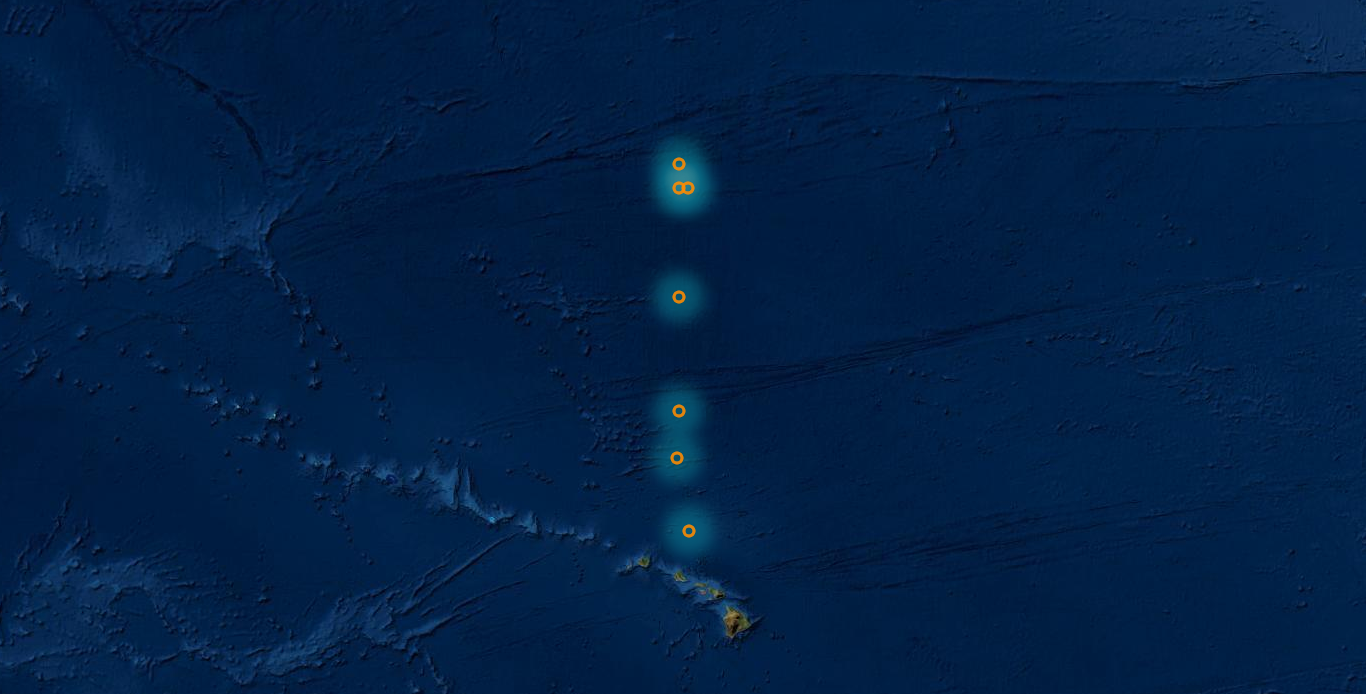
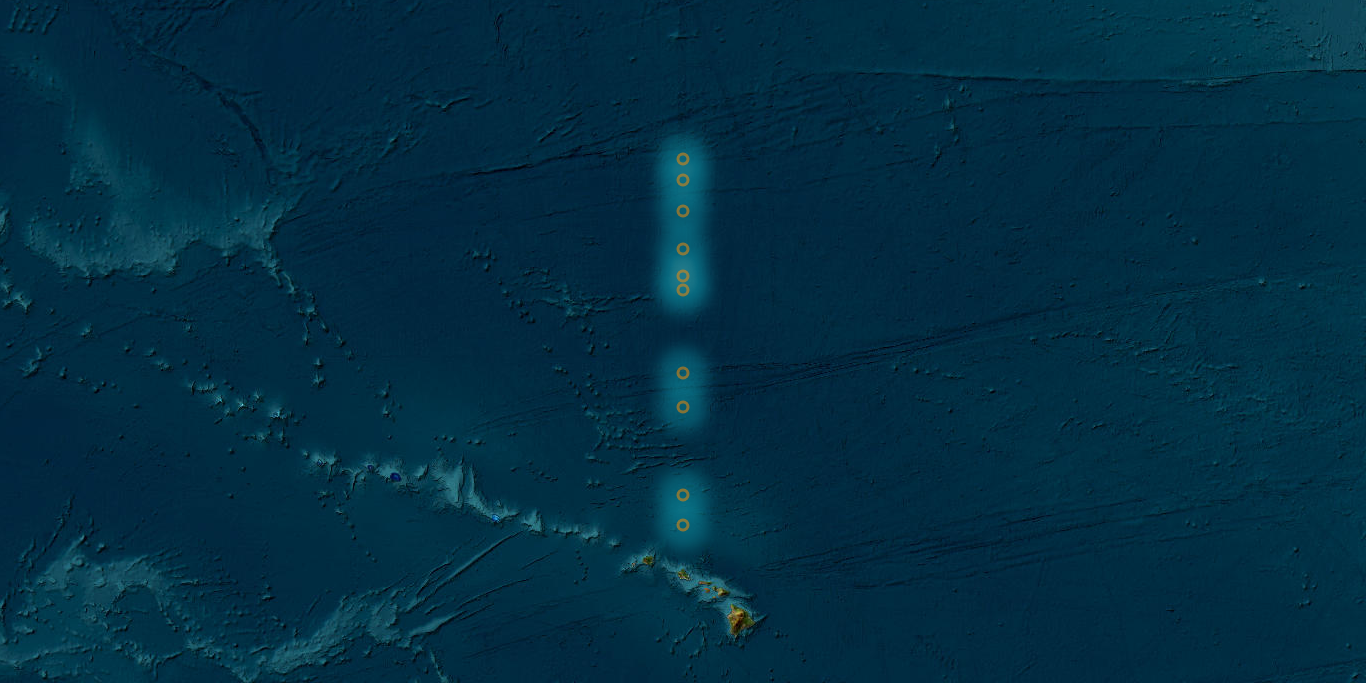
init

diff --git a/mission_icons/tblKOK1606_Gradients1_14C_NPP.html b/mission_icons/tblKOK1606_Gradients1_14C_NPP.html
@@ -23,7 +23,7 @@
             <meta name="viewport" content="width=device-width,
                 initial-scale=1.0, maximum-scale=1.0, user-scalable=no" />
             <style>
-                #map_f5e48bc91ca544d8b5bffabb1438fe5a {
+                #map_26b1746d8a884f21bd3cb9c8be00013f {
                     position: relative;
                     width: 100.0%;
                     height: 100.0%;
@@ -39,15 +39,15 @@
 </head>
 <body>    
     
-            <div class="folium-map" id="map_f5e48bc91ca544d8b5bffabb1438fe5a" ></div>
+            <div class="folium-map" id="map_26b1746d8a884f21bd3cb9c8be00013f" ></div>
         
 </body>
 <script>    
     
-            var map_f5e48bc91ca544d8b5bffabb1438fe5a = L.map(
-                "map_f5e48bc91ca544d8b5bffabb1438fe5a",
+            var map_26b1746d8a884f21bd3cb9c8be00013f = L.map(
+                "map_26b1746d8a884f21bd3cb9c8be00013f",
                 {
-                    center: [31.41428571428573, -157.89000000000004],
+                    center: [31.486, -157.999],
                     crs: L.CRS.EPSG3857,
                     zoom: 7,
                     zoomControl: true,
@@ -59,153 +59,87 @@
 
         
     
-            map_f5e48bc91ca544d8b5bffabb1438fe5a.fitBounds(
-                [[23.34, -158.09], [37.18, -157.55]],
+            map_26b1746d8a884f21bd3cb9c8be00013f.fitBounds(
+                [[23.5, -158.0], [37.3, -157.99]],
                 {}
             );
         
     
-            var tile_layer_081449b3103f47dcb7aaa97f4b6e8df6 = L.tileLayer(
+            var tile_layer_22550dae1fd245f8b073f1668d3f3204 = L.tileLayer(
                 "https://server.arcgisonline.com/ArcGIS/rest/services/World_Imagery/MapServer/tile/{z}/{y}/{x}",
                 {"attribution": " ", "detectRetina": false, "maxNativeZoom": 18, "maxZoom": 18, "minZoom": 0, "noWrap": false, "opacity": 1, "subdomains": "abc", "tms": false}
-            ).addTo(map_f5e48bc91ca544d8b5bffabb1438fe5a);
+            ).addTo(map_26b1746d8a884f21bd3cb9c8be00013f);
         
     
-            var heat_map_ce62b0fea4f142f39142deba19947210 = L.heatLayer(
-                [[23.34, -157.55], [23.34, -157.55], [23.34, -157.55], [28.08, -158.0], [28.08, -158.0], [28.08, -158.0], [32.4, -158.0], [32.4, -158.0], [32.4, -158.0], [37.18, -158.0], [37.18, -158.0], [37.18, -158.0], [36.34, -158.0], [36.34, -158.0], [36.34, -158.0], [36.34, -157.59], [36.34, -157.59], [36.34, -157.59], [26.22, -158.09], [26.22, -158.09], [26.22, -158.09]],
+            var heat_map_b237af739b3645a1b91ce3ea678a93a8 = L.heatLayer(
+                [[23.5, -157.99], [24.68, -158.0], [28.14, -158.0], [29.45, -158.0], [32.58, -158.0], [34.09, -158.0], [37.3, -158.0], [36.57, -158.0], [35.46, -158.0], [33.09, -158.0]],
                 {"blur": 15, "gradient": {"0.65": "#0A8A9F", "1": "#5F9EA0"}, "max": 1.0, "maxZoom": 18, "minOpacity": 0.5, "radius": 25}
-            ).addTo(map_f5e48bc91ca544d8b5bffabb1438fe5a);
+            ).addTo(map_26b1746d8a884f21bd3cb9c8be00013f);
         
     
-            var marker_cluster_fab07f4ef72b474da37f58a76f6f0a75 = L.markerClusterGroup(
+            var marker_cluster_af9eb94cec7a4b9f95e4650f11395ff5 = L.markerClusterGroup(
                 {"disableClusteringAtZoom": "1", "spiderfyOnMaxZoom": "False"}
             );
-            map_f5e48bc91ca544d8b5bffabb1438fe5a.addLayer(marker_cluster_fab07f4ef72b474da37f58a76f6f0a75);
+            map_26b1746d8a884f21bd3cb9c8be00013f.addLayer(marker_cluster_af9eb94cec7a4b9f95e4650f11395ff5);
         
     
-            var circle_marker_62deba5cdf9944f0aa26fabe385750dc = L.circleMarker(
-                [23.34, -157.55],
+            var circle_marker_757d7035e1b7441b944fc452d46a33d1 = L.circleMarker(
+                [23.5, -157.99],
                 {"bubblingMouseEvents": true, "color": "darkOrange", "dashArray": null, "dashOffset": null, "fill": false, "fillColor": "darkOrange", "fillOpacity": 0.2, "fillRule": "evenodd", "lineCap": "round", "lineJoin": "round", "opacity": 0.5, "radius": 5, "stroke": true, "weight": 3}
-            ).addTo(marker_cluster_fab07f4ef72b474da37f58a76f6f0a75);
+            ).addTo(marker_cluster_af9eb94cec7a4b9f95e4650f11395ff5);
         
     
-            var circle_marker_1da6d40df7be4586a01fac0f0042cafa = L.circleMarker(
-                [23.34, -157.55],
+            var circle_marker_83afbe07d2044e099e804bcd9d77b02f = L.circleMarker(
+                [24.68, -158.0],
                 {"bubblingMouseEvents": true, "color": "darkOrange", "dashArray": null, "dashOffset": null, "fill": false, "fillColor": "darkOrange", "fillOpacity": 0.2, "fillRule": "evenodd", "lineCap": "round", "lineJoin": "round", "opacity": 0.5, "radius": 5, "stroke": true, "weight": 3}
-            ).addTo(marker_cluster_fab07f4ef72b474da37f58a76f6f0a75);
+            ).addTo(marker_cluster_af9eb94cec7a4b9f95e4650f11395ff5);
         
     
-            var circle_marker_81a2cf4f10fd488da8971f05f78a8f2c = L.circleMarker(
-                [23.34, -157.55],
+            var circle_marker_7259781579374ebf97eb17124b74a96e = L.circleMarker(
+                [28.14, -158.0],
                 {"bubblingMouseEvents": true, "color": "darkOrange", "dashArray": null, "dashOffset": null, "fill": false, "fillColor": "darkOrange", "fillOpacity": 0.2, "fillRule": "evenodd", "lineCap": "round", "lineJoin": "round", "opacity": 0.5, "radius": 5, "stroke": true, "weight": 3}
-            ).addTo(marker_cluster_fab07f4ef72b474da37f58a76f6f0a75);
+            ).addTo(marker_cluster_af9eb94cec7a4b9f95e4650f11395ff5);
         
     
-            var circle_marker_70e8f1a81a7c41f9b2a4ba50d5f7f1ef = L.circleMarker(
-                [28.08, -158.0],
+            var circle_marker_04dae946a7d84c2d84202d62067ed6d3 = L.circleMarker(
+                [29.45, -158.0],
                 {"bubblingMouseEvents": true, "color": "darkOrange", "dashArray": null, "dashOffset": null, "fill": false, "fillColor": "darkOrange", "fillOpacity": 0.2, "fillRule": "evenodd", "lineCap": "round", "lineJoin": "round", "opacity": 0.5, "radius": 5, "stroke": true, "weight": 3}
-            ).addTo(marker_cluster_fab07f4ef72b474da37f58a76f6f0a75);
+            ).addTo(marker_cluster_af9eb94cec7a4b9f95e4650f11395ff5);
         
     
-            var circle_marker_cb0e52823d7047a784e1176f6d2f180e = L.circleMarker(
-                [28.08, -158.0],
+            var circle_marker_3b5c351548034c11ad02b9a3661b356c = L.circleMarker(
+                [32.58, -158.0],
                 {"bubblingMouseEvents": true, "color": "darkOrange", "dashArray": null, "dashOffset": null, "fill": false, "fillColor": "darkOrange", "fillOpacity": 0.2, "fillRule": "evenodd", "lineCap": "round", "lineJoin": "round", "opacity": 0.5, "radius": 5, "stroke": true, "weight": 3}
-            ).addTo(marker_cluster_fab07f4ef72b474da37f58a76f6f0a75);
+            ).addTo(marker_cluster_af9eb94cec7a4b9f95e4650f11395ff5);
         
     
-            var circle_marker_7c4f5de453a344cb9eeb55752faf0536 = L.circleMarker(
-                [28.08, -158.0],
+            var circle_marker_6d7c6416ddbe4e1e8ab663d6f60d3a88 = L.circleMarker(
+                [34.09, -158.0],
                 {"bubblingMouseEvents": true, "color": "darkOrange", "dashArray": null, "dashOffset": null, "fill": false, "fillColor": "darkOrange", "fillOpacity": 0.2, "fillRule": "evenodd", "lineCap": "round", "lineJoin": "round", "opacity": 0.5, "radius": 5, "stroke": true, "weight": 3}
-            ).addTo(marker_cluster_fab07f4ef72b474da37f58a76f6f0a75);
+            ).addTo(marker_cluster_af9eb94cec7a4b9f95e4650f11395ff5);
         
     
-            var circle_marker_0cfbdeae69c54e4fa85f783afdd660f8 = L.circleMarker(
-                [32.4, -158.0],
+            var circle_marker_99c0350544fa43388ac9ce4db8f8e5f4 = L.circleMarker(
+                [37.3, -158.0],
                 {"bubblingMouseEvents": true, "color": "darkOrange", "dashArray": null, "dashOffset": null, "fill": false, "fillColor": "darkOrange", "fillOpacity": 0.2, "fillRule": "evenodd", "lineCap": "round", "lineJoin": "round", "opacity": 0.5, "radius": 5, "stroke": true, "weight": 3}
-            ).addTo(marker_cluster_fab07f4ef72b474da37f58a76f6f0a75);
+            ).addTo(marker_cluster_af9eb94cec7a4b9f95e4650f11395ff5);
         
     
-            var circle_marker_7ae59b2a5e8449a3baa162c215a2d9bc = L.circleMarker(
-                [32.4, -158.0],
+            var circle_marker_1d0f42017d034f8bbec2dcf72d9639a0 = L.circleMarker(
+                [36.57, -158.0],
                 {"bubblingMouseEvents": true, "color": "darkOrange", "dashArray": null, "dashOffset": null, "fill": false, "fillColor": "darkOrange", "fillOpacity": 0.2, "fillRule": "evenodd", "lineCap": "round", "lineJoin": "round", "opacity": 0.5, "radius": 5, "stroke": true, "weight": 3}
-            ).addTo(marker_cluster_fab07f4ef72b474da37f58a76f6f0a75);
+            ).addTo(marker_cluster_af9eb94cec7a4b9f95e4650f11395ff5);
         
     
-            var circle_marker_02c8897aab20405485b76aa7ef412878 = L.circleMarker(
-                [32.4, -158.0],
+            var circle_marker_54de2e1808304ae5850bb1ea8cba4045 = L.circleMarker(
+                [35.46, -158.0],
                 {"bubblingMouseEvents": true, "color": "darkOrange", "dashArray": null, "dashOffset": null, "fill": false, "fillColor": "darkOrange", "fillOpacity": 0.2, "fillRule": "evenodd", "lineCap": "round", "lineJoin": "round", "opacity": 0.5, "radius": 5, "stroke": true, "weight": 3}
-            ).addTo(marker_cluster_fab07f4ef72b474da37f58a76f6f0a75);
+            ).addTo(marker_cluster_af9eb94cec7a4b9f95e4650f11395ff5);
         
     
-            var circle_marker_0c636e8e388c4f9ca896fb2609ab3500 = L.circleMarker(
-                [37.18, -158.0],
+            var circle_marker_0861c8a22509432ba197afb3502c7147 = L.circleMarker(
+                [33.09, -158.0],
                 {"bubblingMouseEvents": true, "color": "darkOrange", "dashArray": null, "dashOffset": null, "fill": false, "fillColor": "darkOrange", "fillOpacity": 0.2, "fillRule": "evenodd", "lineCap": "round", "lineJoin": "round", "opacity": 0.5, "radius": 5, "stroke": true, "weight": 3}
-            ).addTo(marker_cluster_fab07f4ef72b474da37f58a76f6f0a75);
-        
-    
-            var circle_marker_972165d128fe432ca9006412b5a711d1 = L.circleMarker(
-                [37.18, -158.0],
-                {"bubblingMouseEvents": true, "color": "darkOrange", "dashArray": null, "dashOffset": null, "fill": false, "fillColor": "darkOrange", "fillOpacity": 0.2, "fillRule": "evenodd", "lineCap": "round", "lineJoin": "round", "opacity": 0.5, "radius": 5, "stroke": true, "weight": 3}
-            ).addTo(marker_cluster_fab07f4ef72b474da37f58a76f6f0a75);
-        
-    
-            var circle_marker_abcf764987ce48d4a93d976b543ae438 = L.circleMarker(
-                [37.18, -158.0],
-                {"bubblingMouseEvents": true, "color": "darkOrange", "dashArray": null, "dashOffset": null, "fill": false, "fillColor": "darkOrange", "fillOpacity": 0.2, "fillRule": "evenodd", "lineCap": "round", "lineJoin": "round", "opacity": 0.5, "radius": 5, "stroke": true, "weight": 3}
-            ).addTo(marker_cluster_fab07f4ef72b474da37f58a76f6f0a75);
-        
-    
-            var circle_marker_0d332ca30191457cbeb582b55c8d7900 = L.circleMarker(
-                [36.34, -158.0],
-                {"bubblingMouseEvents": true, "color": "darkOrange", "dashArray": null, "dashOffset": null, "fill": false, "fillColor": "darkOrange", "fillOpacity": 0.2, "fillRule": "evenodd", "lineCap": "round", "lineJoin": "round", "opacity": 0.5, "radius": 5, "stroke": true, "weight": 3}
-            ).addTo(marker_cluster_fab07f4ef72b474da37f58a76f6f0a75);
-        
-    
-            var circle_marker_9801f12f1856460f98ae528fccf983c6 = L.circleMarker(
-                [36.34, -158.0],
-                {"bubblingMouseEvents": true, "color": "darkOrange", "dashArray": null, "dashOffset": null, "fill": false, "fillColor": "darkOrange", "fillOpacity": 0.2, "fillRule": "evenodd", "lineCap": "round", "lineJoin": "round", "opacity": 0.5, "radius": 5, "stroke": true, "weight": 3}
-            ).addTo(marker_cluster_fab07f4ef72b474da37f58a76f6f0a75);
-        
-    
-            var circle_marker_e3ef0887e4c640f0b9b4de1c7298d311 = L.circleMarker(
-                [36.34, -158.0],
-                {"bubblingMouseEvents": true, "color": "darkOrange", "dashArray": null, "dashOffset": null, "fill": false, "fillColor": "darkOrange", "fillOpacity": 0.2, "fillRule": "evenodd", "lineCap": "round", "lineJoin": "round", "opacity": 0.5, "radius": 5, "stroke": true, "weight": 3}
-            ).addTo(marker_cluster_fab07f4ef72b474da37f58a76f6f0a75);
-        
-    
-            var circle_marker_9d0a3d28ef014ffa8d488bcad837195a = L.circleMarker(
-                [36.34, -157.59],
-                {"bubblingMouseEvents": true, "color": "darkOrange", "dashArray": null, "dashOffset": null, "fill": false, "fillColor": "darkOrange", "fillOpacity": 0.2, "fillRule": "evenodd", "lineCap": "round", "lineJoin": "round", "opacity": 0.5, "radius": 5, "stroke": true, "weight": 3}
-            ).addTo(marker_cluster_fab07f4ef72b474da37f58a76f6f0a75);
-        
-    
-            var circle_marker_29a593382a7e480b90726001e8ee207d = L.circleMarker(
-                [36.34, -157.59],
-                {"bubblingMouseEvents": true, "color": "darkOrange", "dashArray": null, "dashOffset": null, "fill": false, "fillColor": "darkOrange", "fillOpacity": 0.2, "fillRule": "evenodd", "lineCap": "round", "lineJoin": "round", "opacity": 0.5, "radius": 5, "stroke": true, "weight": 3}
-            ).addTo(marker_cluster_fab07f4ef72b474da37f58a76f6f0a75);
-        
-    
-            var circle_marker_0ffd422b28744262acd1f59d5a060a90 = L.circleMarker(
-                [36.34, -157.59],
-                {"bubblingMouseEvents": true, "color": "darkOrange", "dashArray": null, "dashOffset": null, "fill": false, "fillColor": "darkOrange", "fillOpacity": 0.2, "fillRule": "evenodd", "lineCap": "round", "lineJoin": "round", "opacity": 0.5, "radius": 5, "stroke": true, "weight": 3}
-            ).addTo(marker_cluster_fab07f4ef72b474da37f58a76f6f0a75);
-        
-    
-            var circle_marker_03e25fddc87a403590f6112a85ce91aa = L.circleMarker(
-                [26.22, -158.09],
-                {"bubblingMouseEvents": true, "color": "darkOrange", "dashArray": null, "dashOffset": null, "fill": false, "fillColor": "darkOrange", "fillOpacity": 0.2, "fillRule": "evenodd", "lineCap": "round", "lineJoin": "round", "opacity": 0.5, "radius": 5, "stroke": true, "weight": 3}
-            ).addTo(marker_cluster_fab07f4ef72b474da37f58a76f6f0a75);
-        
-    
-            var circle_marker_71d45800cb63445181abe263a22e668b = L.circleMarker(
-                [26.22, -158.09],
-                {"bubblingMouseEvents": true, "color": "darkOrange", "dashArray": null, "dashOffset": null, "fill": false, "fillColor": "darkOrange", "fillOpacity": 0.2, "fillRule": "evenodd", "lineCap": "round", "lineJoin": "round", "opacity": 0.5, "radius": 5, "stroke": true, "weight": 3}
-            ).addTo(marker_cluster_fab07f4ef72b474da37f58a76f6f0a75);
-        
-    
-            var circle_marker_7a3a3740f3224b02a8f1f101b5c90368 = L.circleMarker(
-                [26.22, -158.09],
-                {"bubblingMouseEvents": true, "color": "darkOrange", "dashArray": null, "dashOffset": null, "fill": false, "fillColor": "darkOrange", "fillOpacity": 0.2, "fillRule": "evenodd", "lineCap": "round", "lineJoin": "round", "opacity": 0.5, "radius": 5, "stroke": true, "weight": 3}
-            ).addTo(marker_cluster_fab07f4ef72b474da37f58a76f6f0a75);
+            ).addTo(marker_cluster_af9eb94cec7a4b9f95e4650f11395ff5);
         
 </script>
